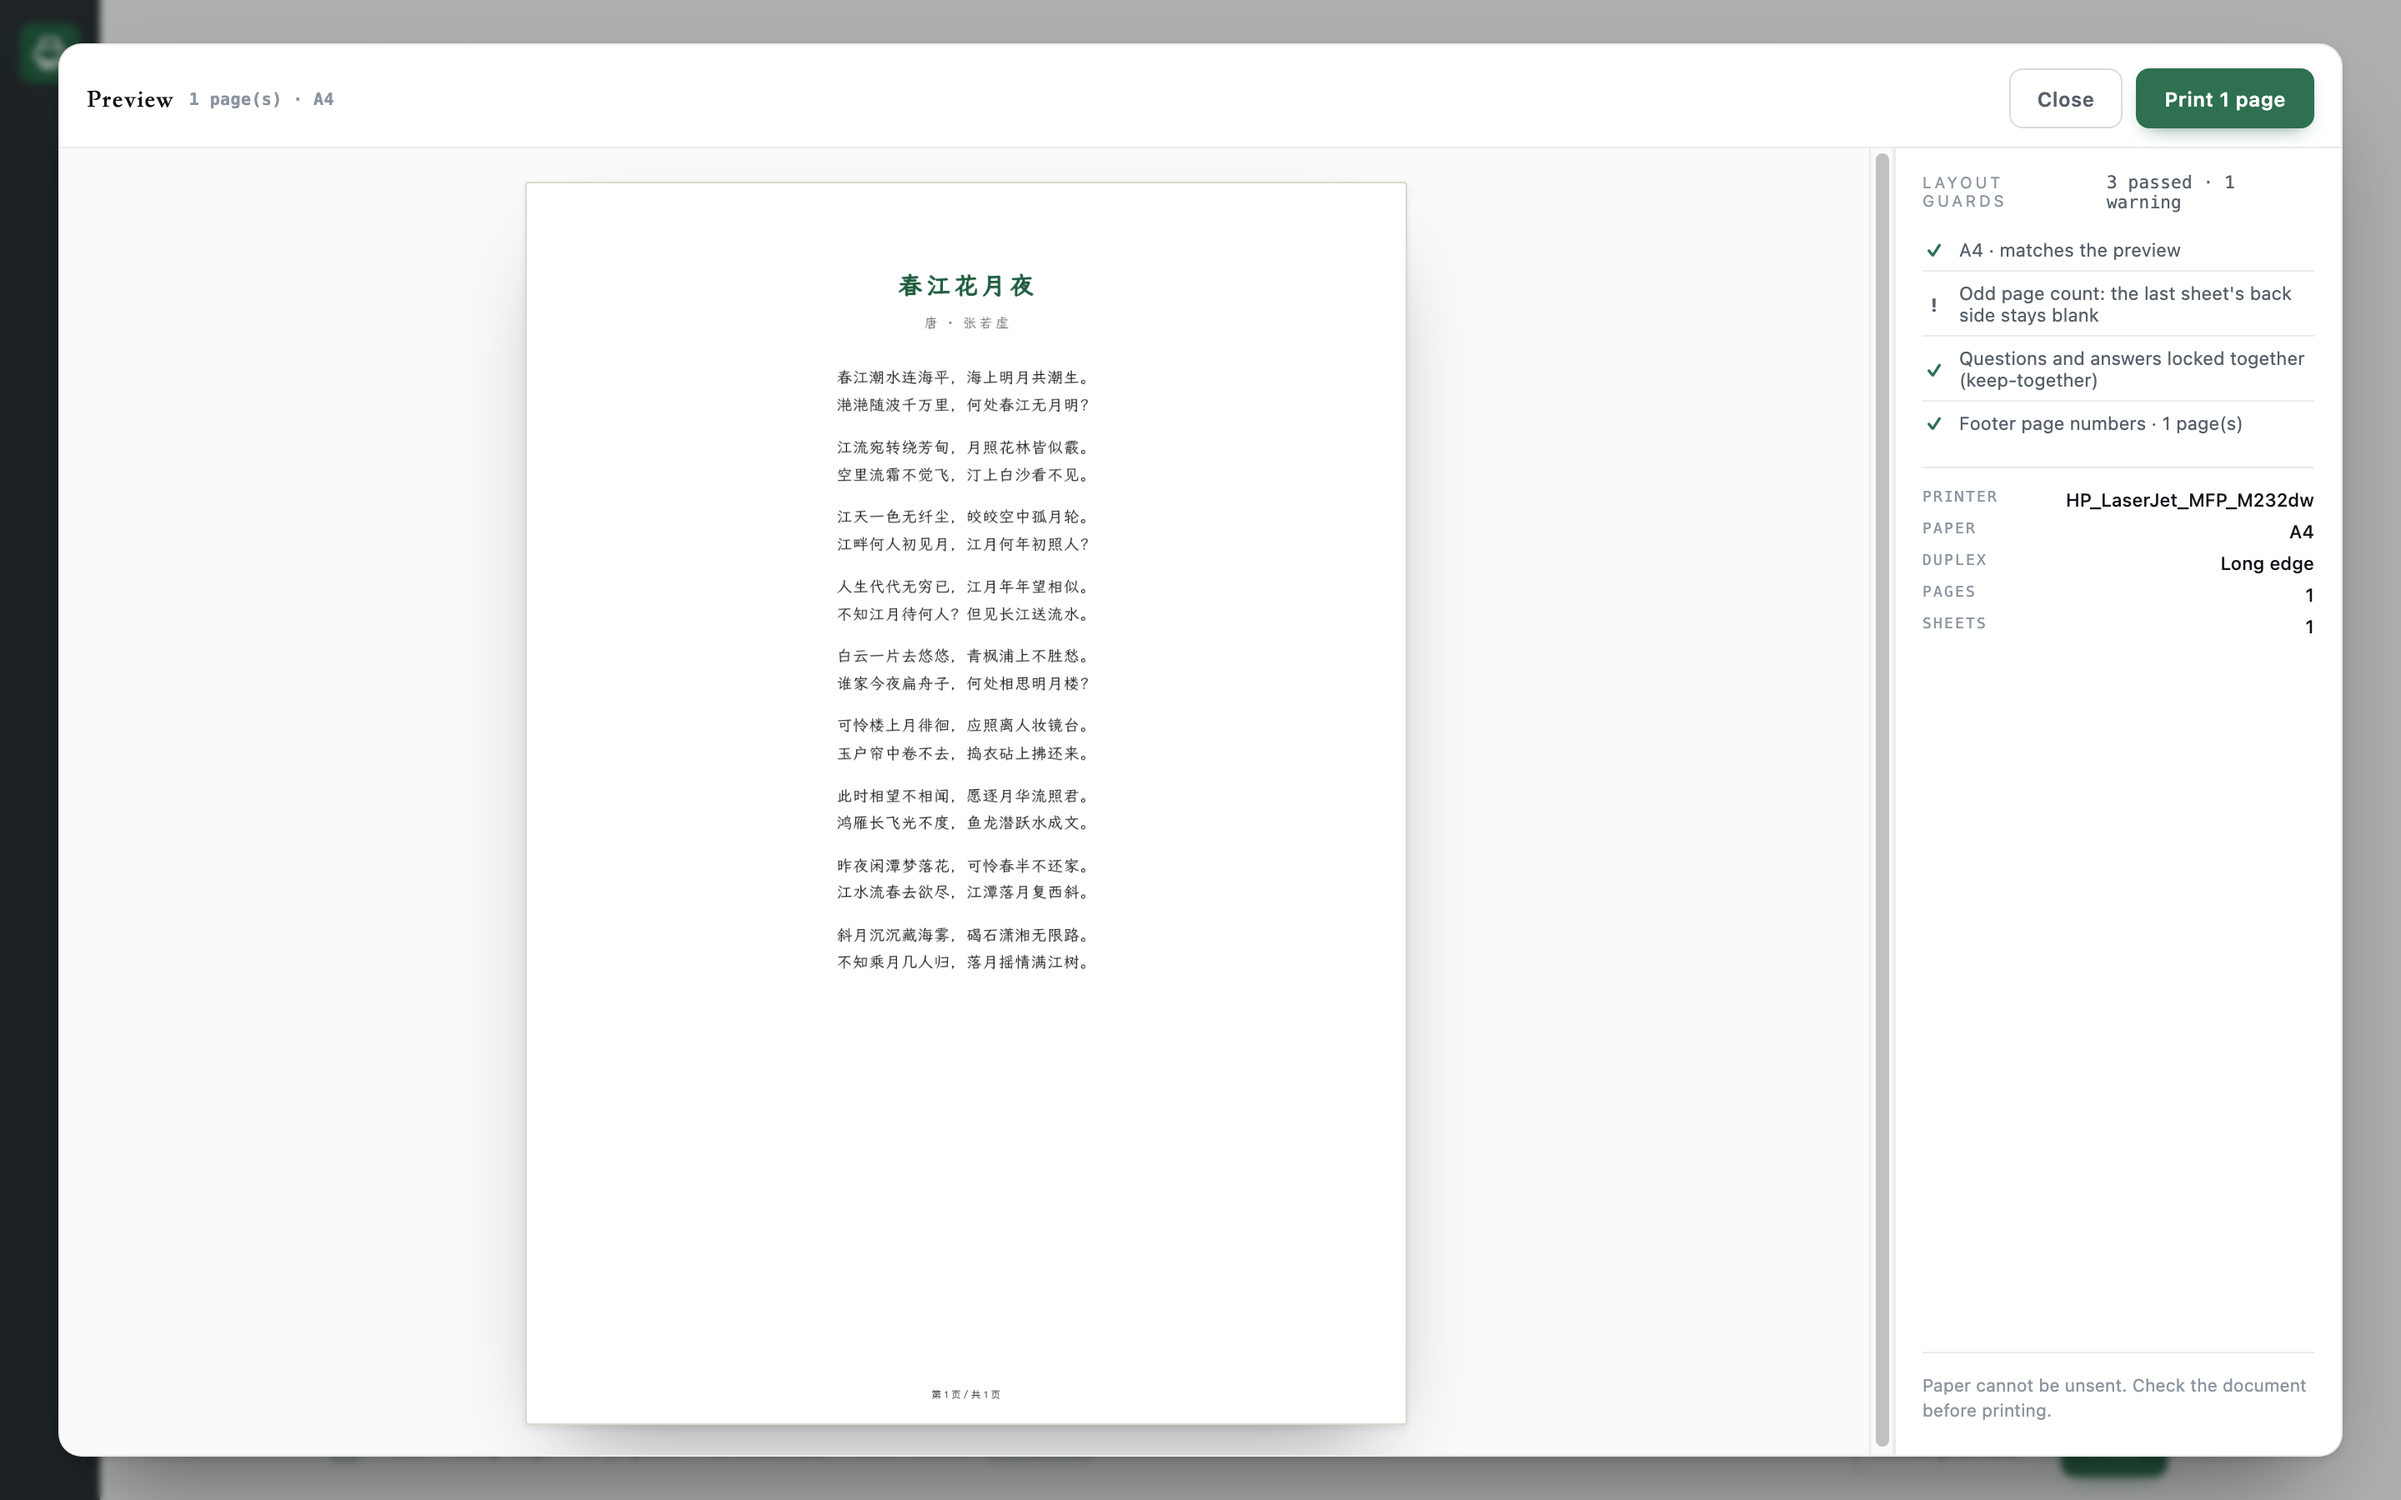
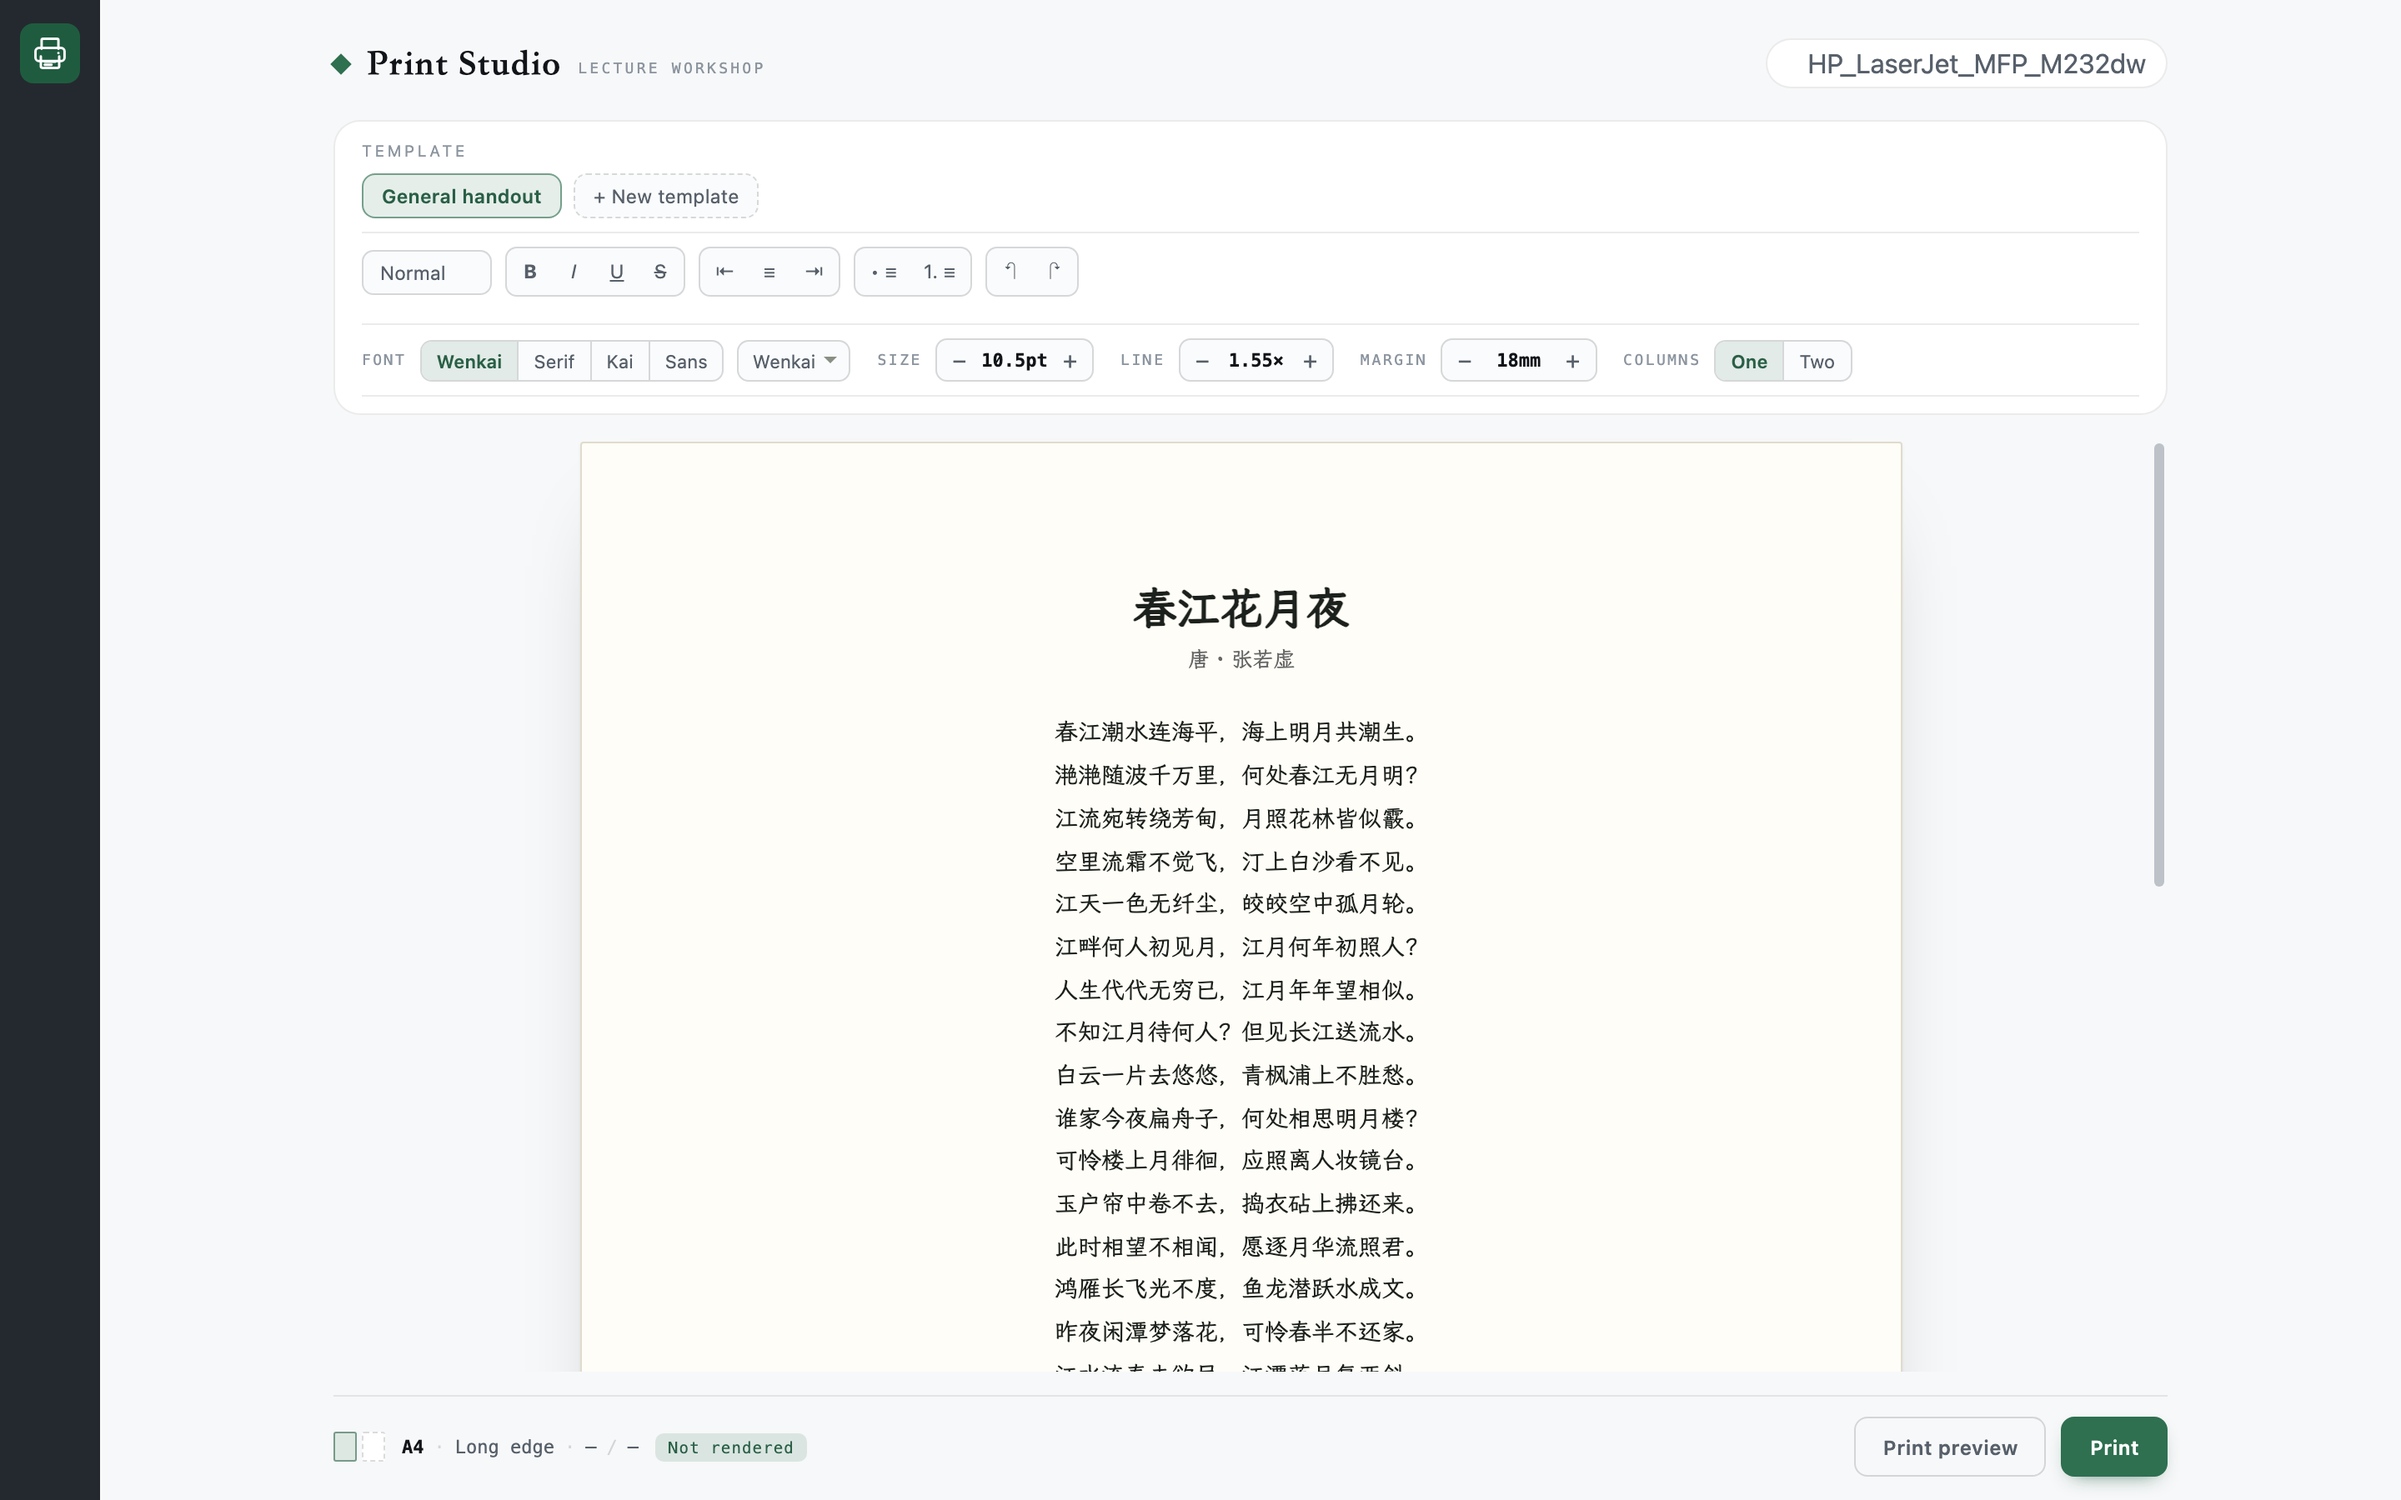
chore(release): v0.2.0 - Word-style rich text desk with ribbon & updated screenshots

diff --git a/preview/index.html b/preview/index.html
@@ -89,6 +89,7 @@
     <script>
       const params = new URLSearchParams(location.search);
       const curLocale = params.get("locale") === "en" ? "en" : "zh";
+      const showModal = params.get("modal") === "1";
 
       // Override navigator.language
       Object.defineProperty(navigator, "language", {
@@ -114,6 +115,14 @@
     <script>
       (async () => {
         const mockData = await fetch("/preview/mock-preview.json").then(r => r.json());
+
+        // Convert plain poem to rich HTML paragraphs with title & author
+        const poemLines = mockData.poem.split("\n");
+        const poemHtml = `
+          <h1 style="text-align: center; margin-bottom: 4px;">${poemLines[0]}</h1>
+          <p style="text-align: center; color: #666; font-size: 0.9em; margin-bottom: 24px;">${poemLines[1]}</p>
+          ${poemLines.slice(2).map(l => `<p style="text-align: center; margin: 4px 0;">${l}</p>`).join("")}
+        `;
 
         // 2. Fetch mock interceptor
         const origFetch = window.fetch;
@@ -145,7 +154,7 @@
                 builtIn: true
               }],
               systemFonts: ["LXGW WenKai", "Songti SC", "Kaiti SC", "PingFang SC", "Helvetica Neue", "Arial"],
-              draft: { markdown: mockData.poem }
+              draft: { markdown: mockData.poem, html: poemHtml }
             }), { headers: { "content-type": "application/json" } });
           }
 
@@ -223,15 +232,17 @@
         const mainSlot = document.getElementById("main-slot");
         ReactDOM.render(React.createElement(MainComponent), mainSlot);
 
-        // 打开一次打印预览，让截图里有真实样张
+        // 如果要求弹窗，则点击打印预览；否则停留在主编辑桌上
         setTimeout(() => {
-          const renderBtn = Array.from(document.querySelectorAll("button")).find(
-            (b) => b.innerText.includes("打印预览") || b.innerText.includes("Print preview"),
-          );
-          if (renderBtn) renderBtn.click();
+          if (showModal) {
+            const renderBtn = Array.from(document.querySelectorAll("button")).find(
+              (b) => b.innerText.includes("打印预览") || b.innerText.includes("Print preview"),
+            );
+            if (renderBtn) renderBtn.click();
+          }
           setTimeout(() => {
             window.__previewReady = true;
-          }, 900);
+          }, showModal ? 900 : 500);
         }, 500);
       })();
     </script>
